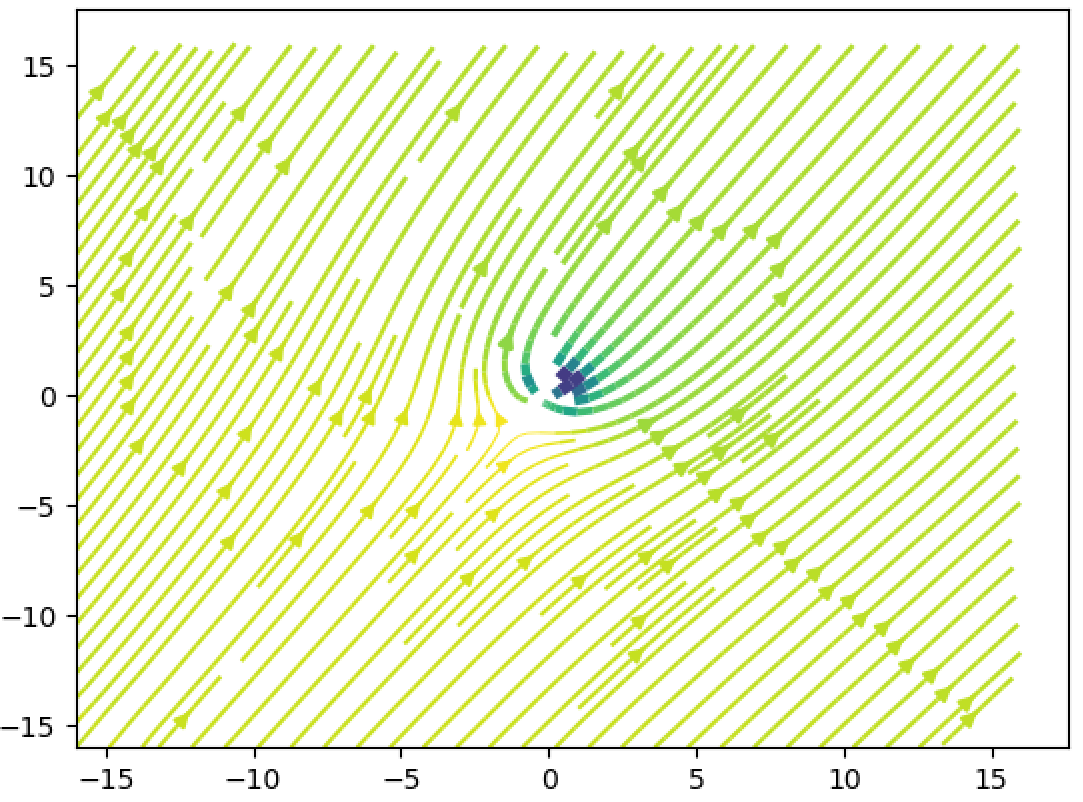
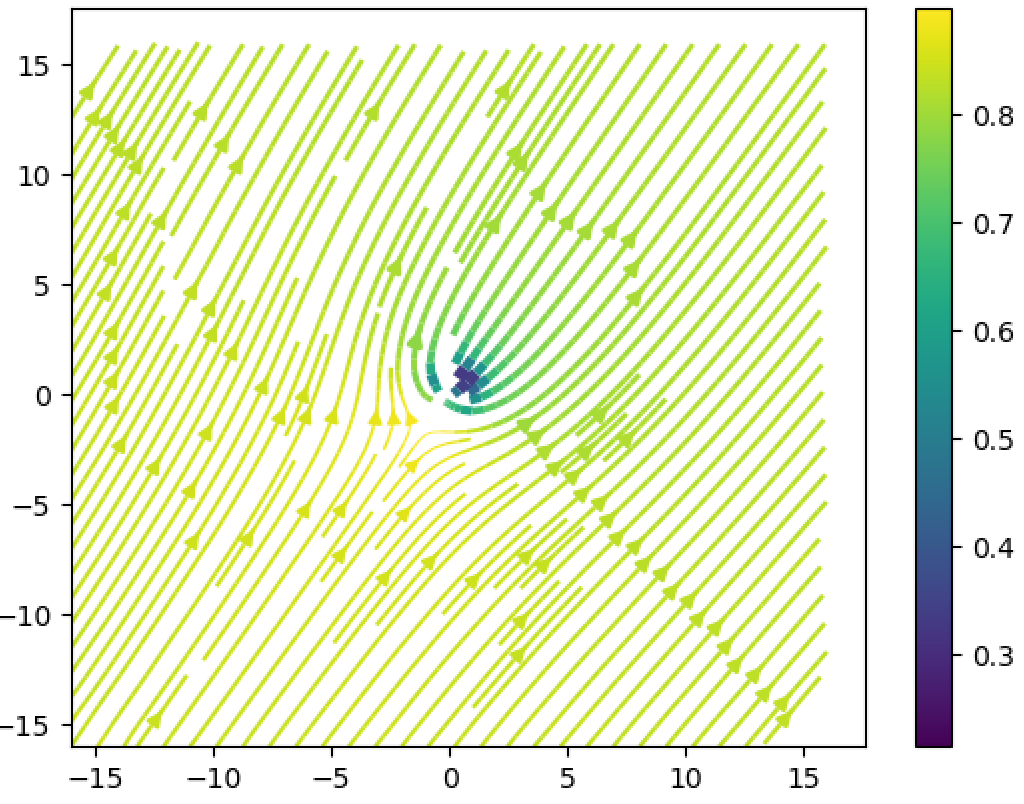
replaced contour images with colorbars

diff --git a/post_process.py b/post_process.py
@@ -46,8 +46,8 @@ def plot_contour(data):
         speed = np.sqrt(u*u + v*v)
 
         # plot data
-        plt.streamplot(x,y,u,v,density=2,color=p,linewidth=5*speed/speed.max())
-        plt.colorbar(p)
+        stream = plt.streamplot(x,y,u,v,density=2,color=p,linewidth=5*speed/speed.max())
+        plt.colorbar(stream.lines)
         plt.show()
 
 for filename in os.listdir(DATA_DIR):
